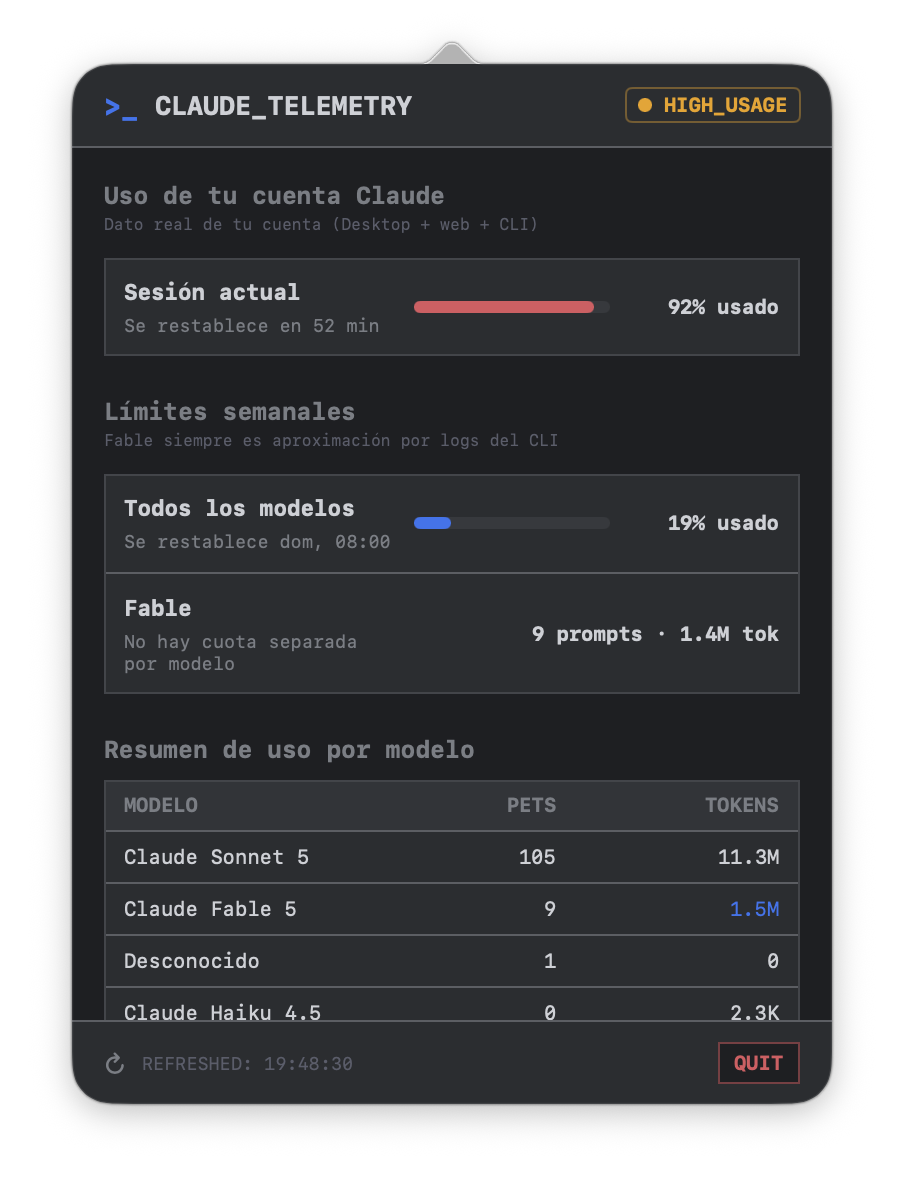
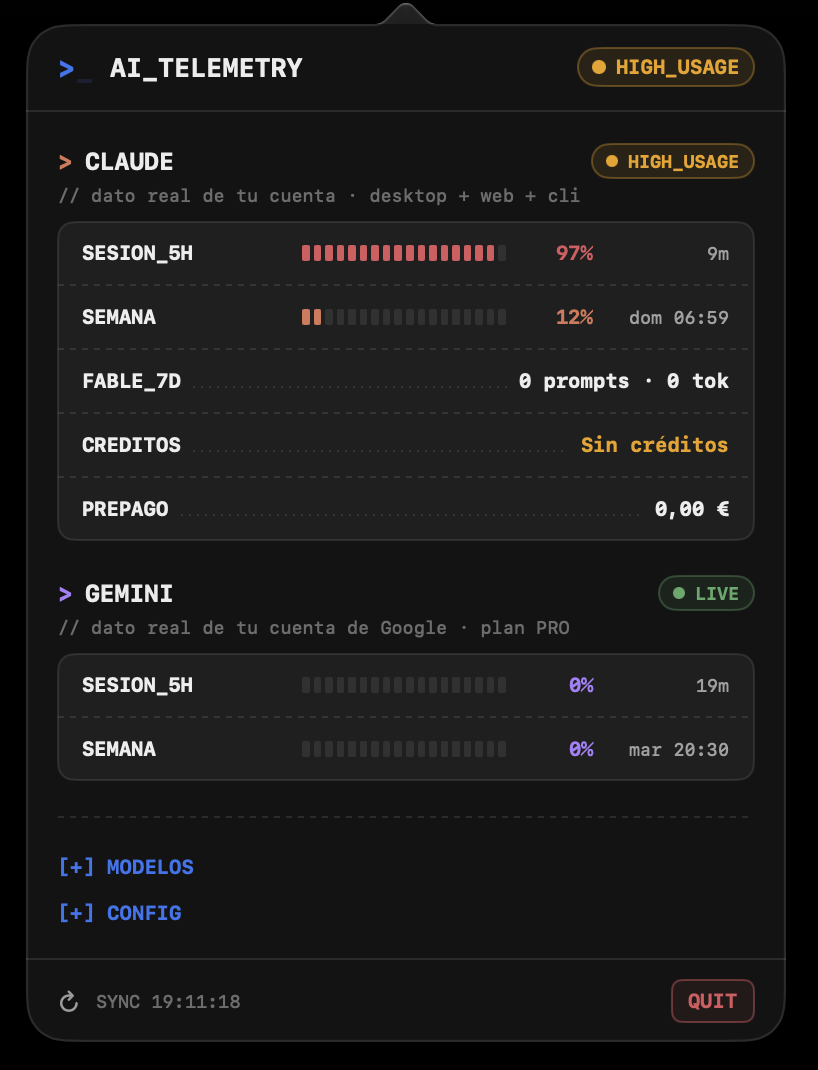
docs: README al día con Gemini (cuenta de Google), estados y captura nueva
- Captura nueva del popover con Claude y Gemini.
- Explica los estados (LIVE, LOGIN, NO_DATA...), la conexión de la cuenta
  de Google, los cajones excluyentes con los 6 modelos más usados y que el
  panel se ajusta a su contenido.
- Nuevo paso "Connect your accounts" y nota para actualizar la app.

Claude-Session: https://claude.ai/code/session_01TA9Wp3DQ3wvF1WcYxh37AE

diff --git a/README.md b/README.md
@@ -1,11 +1,11 @@
 # Claude Menubar Telemetry
 
-A native macOS menu bar utility that provides real-time token usage and subscription-quota telemetry for **Claude Code** and **Gemini CLI**.
+A native macOS menu bar utility that shows, at a glance, how much of your **Claude** and **Gemini** plan limits you've used — the real account-wide figures, with when each limit resets.
 
 The interface is a translucent, frosted-glass popover with a terminal aesthetic: monospaced typography, `SNAKE_CASE` labels, segmented meters and terminal-like indicators.
 
 <div align="center">
-  <img src="docs/screenshot.png" width="380" alt="Claude Menubar Telemetry popover showing session and weekly usage" />
+  <img src="docs/screenshot.png" width="380" alt="AI Telemetry popover showing Claude and Gemini session and weekly usage" />
 </div>
 
 ---
@@ -19,9 +19,9 @@ The interface is a translucent, frosted-glass popover with a terminal aesthetic:
 - **Gemini too**: Right below Claude, the popover shows how much of your Google account's Gemini allowance you've used — the current 5-hour allowance and the weekly limit, the same figures as `gemini.google.com/usage`, covering the web, mobile and every other Gemini app. Sign in to Google once from the popover and it stays connected. Gemini CLI users also get its per-model quota and local activity.
 - **Per-model weekly windows**: When Anthropic publishes a separate weekly window for a model, it gets its own progress bar instead of a made-up percentage.
 - **Live Reset Countdown**: Shows exactly when your current 5-hour session window resets, ticking down in real time.
-- **Multi-Model Breakdown**: Automatically groups and lists token usage and requests count per model (Claude Fable, Sonnet, Opus, etc.).
+- **Multi-Model Breakdown**: Groups prompts and tokens per model (Claude Fable, Sonnet, Opus…, and Gemini models if you use Gemini CLI) in a folding table.
 - **No Keychain password prompts**: The Claude Code session is read through `/usr/bin/security`, the same tool Claude Code uses to store it, so macOS hands it over without asking — not once a day, not after every token refresh.
-- **Frosted-glass, terminal-style UI**: Translucent popover over the system blur, monospaced typography (JetBrains Mono when installed) and terminal indicators.
+- **Frosted-glass, terminal-style UI**: Translucent popover over the system blur, monospaced typography (JetBrains Mono when installed) and terminal indicators. It sizes itself to its content: no empty space, and it grows when a drawer opens.
 
 ---
 
@@ -33,11 +33,11 @@ The popover is a sheet of frosted glass: the system blur (`NSVisualEffectView`, 
 - **OK / warning / limit**: `#59A869` / `#EDA200` / `#DB5860` (meters turn amber at 70% and red at 90%)
 
 Everything fits in one view, so both providers can be read at a glance when you click the Menu Bar icon (`terminal` system icon):
-1. **Header**: `>_ AI_TELEMETRY` with the worst state of the two (`● LIVE`, `● LOGS_ONLY`, `● HIGH_USAGE` or `● RATE_LIMITED`).
+1. **Header**: `>_ AI_TELEMETRY` with the worst state of the two providers. Each section also has its own badge: `● LIVE` (real account data), `● HIGH_USAGE` (90%+), `● RATE_LIMITED` (limit reached), `● LOGS_ONLY` (Claude without a live session, local estimate), `● LOGIN` (Gemini waiting for you to connect your Google account) or `● NO_DATA`.
 2. **`> CLAUDE`**: One line per limit — 5-hour session, all-models week and every model-scoped weekly window the account has — each with its meter, percentage and reset (a countdown under a day, weekday and time beyond). Below them, usage credits spent against the monthly limit and the prepaid balance when there is one. Without a live session it degrades to a plain Fable requests/tokens counter rather than inventing a percentage.
-3. **`> GEMINI`**: Your Google account's Gemini app usage, exactly as `gemini.google.com/usage` shows it — the current allowance (refreshes every 5 hours) and the weekly limit, each with its reset — plus your plan. If you also use Gemini CLI, its per-model quota and recent activity appear underneath.
-4. **`[+] MODELOS`**: Folded by default; prompts and tokens per model for Claude Code (all history) and Gemini CLI (7 days).
-5. **`[+] CONFIG`**: Start with macOS and the fallback limits used when there's no live Claude data.
+3. **`> GEMINI`**: Your Google account's Gemini app usage, exactly as `gemini.google.com/usage` shows it — `SESION_5H` (the current allowance, refreshed every 5 hours) and `SEMANA` (the weekly limit), each with its reset — plus your plan in the comment line. Until you connect your Google account it shows a `CUENTA_GOOGLE · conectar →` row instead. If you also use Gemini CLI, its per-model quota (`CLI_…`) and last-24h activity appear underneath.
+4. **`[+] MODELOS`**: Folded by default; prompts and tokens for the 6 most-used models of Claude Code (all history) and, if you use it, Gemini CLI (7 days).
+5. **`[+] CONFIG`**: Start with macOS, `DESCONECTAR_GOOGLE` (forget the app's Google session) and the fallback limits used when there's no live Claude data. Only one drawer is open at a time, so the popover always fits on screen.
 6. **Footer Controls**: Manually refresh statistics, see the last sync time, or quit.
 
 ---
@@ -50,7 +50,7 @@ Everything fits in one view, so both providers can be read at a glance when you 
 - **Gemini app usage**: Google publishes no API for it; the only source is the `gemini.google.com/usage` page, which needs a signed-in Google session. The app does **not** read your browser's cookies (Chrome encrypts them with a Keychain key, which would bring the password prompts back). Instead, the `CUENTA_GOOGLE · conectar →` row opens a Google sign-in window inside the app; the session is stored in the app's own WebKit storage. When you open the popover, the app loads that page in a hidden web view at most once a minute and reads the two percentages and reset times from its text — nothing is sent anywhere else. `[+] CONFIG → DESCONECTAR_GOOGLE` deletes that session. Because it reads a web page rather than an API, a redesign of that page by Google can break it; the section then says so and the rest of the app keeps working.
 - **Gemini CLI**: if you signed in to Gemini CLI with Google, the app reads `~/.gemini/oauth_creds.json` and asks Google's Code Assist API (`cloudcode-pa.googleapis.com`) for your plan and remaining quota, the same calls Gemini CLI makes for `/stats`. Neither consumes quota. Google access tokens only last an hour, so when the one in that file has expired the app renews it with Gemini CLI's public OAuth client; Google doesn't rotate the refresh token when doing so, so this can't log the CLI out. The renewed token lives only in memory — the app never writes to `~/.gemini`. Gemini CLI setups using an API key, Vertex AI or encrypted credential storage have no such session, so only the local log figures are shown.
 - **Upgrading from an earlier version**: older versions kept a copy of the Claude token in a Keychain item of their own named `com.juanmmm21.ClaudeTelemetry.session`. It's no longer used; you can delete it from Keychain Access if you want.
-- **Fails closed, not open**: if you aren't logged into Claude Code or Gemini CLI, a session has expired, or you're offline, the app falls back to the local, log-only approximation described above — it never crashes or blocks waiting on the network.
+- **Fails closed, not open**: if you aren't logged into Claude Code, Google or Gemini CLI, a session has expired, Google changes its usage page, or you're offline, each section says why in its `//` comment and falls back to what it can still show (for Claude, the local log-only approximation described below) — the app never crashes or blocks waiting on the network.
 - **Read-only on your session logs**: local log parsing only accumulates numeric token values; it never writes to, deletes, or modifies your project or Claude session files.
 
 ---
@@ -79,7 +79,11 @@ Once the build is complete, you can launch the app directly:
 ```bash
 open build/ClaudeTelemetry.app
 ```
-To install it permanently, simply drag the compiled app inside the `build/` folder into your macOS `/Applications` directory.
+To install it permanently, simply drag the compiled app inside the `build/` folder into your macOS `/Applications` directory. When updating, quit the running copy first (`QUIT` in the popover, or `killall ClaudeTelemetry`).
+
+### Step 4: Connect your accounts
+- **Claude**: nothing to do — if you're signed in to Claude Code on this Mac, the `> CLAUDE` section shows `● LIVE` straight away. If it says the session expired, open Claude Code once and it renews it.
+- **Gemini**: click `CUENTA_GOOGLE · conectar →` in the `> GEMINI` section and sign in to Google in the window that opens. It closes by itself when you're done and the section switches to `● LIVE`. You only do this once.
 
 ---
 
@@ -89,10 +93,12 @@ To install it permanently, simply drag the compiled app inside the `build/` fold
 ├── build.sh                 # Standard macOS build script
 ├── .gitignore               # Excludes intermediate compiler targets
 ├── README.md                # Project documentation
+├── docs/
+│   └── screenshot.png       # Popover screenshot used above
 └── src/
     ├── main.swift                # Application entry point
     ├── AppDelegate.swift         # Status bar button and NSPopover controllers
-    ├── DashboardView.swift       # SwiftUI monospaced interface
+    ├── DashboardView.swift       # SwiftUI interface (glass panels, meters, drawers)
     ├── TelemetryManager.swift    # Log parsing logic, cache system & rates
     ├── AccountUsageService.swift # Optional live account-quota & usage-credits lookup
     ├── ClaudeSessionStore.swift  # Prompt-free read of the Claude Code session
@@ -100,7 +106,7 @@ To install it permanently, simply drag the compiled app inside the `build/` fold
     ├── GeminiLogScanner.swift    # Gemini CLI conversation logs (prompts & tokens)
     ├── GeminiWebUsageService.swift # Gemini app usage from gemini.google.com/usage
     ├── LaunchAtLoginService.swift # "Start with macOS" registration (SMAppService)
-    ├── Theme.swift               # Color palette & JetBrains Mono typography tokens
+    ├── Theme.swift               # Translucent palette, provider colors & typography
     └── AppIcon.png               # High-resolution source icon (1024x1024)
 ```
 
